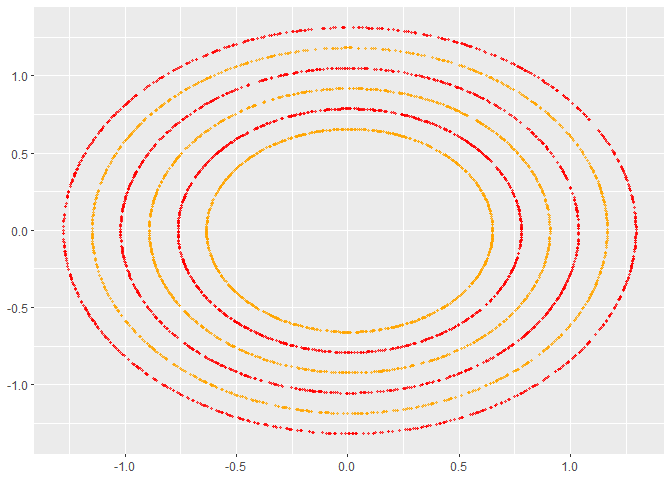
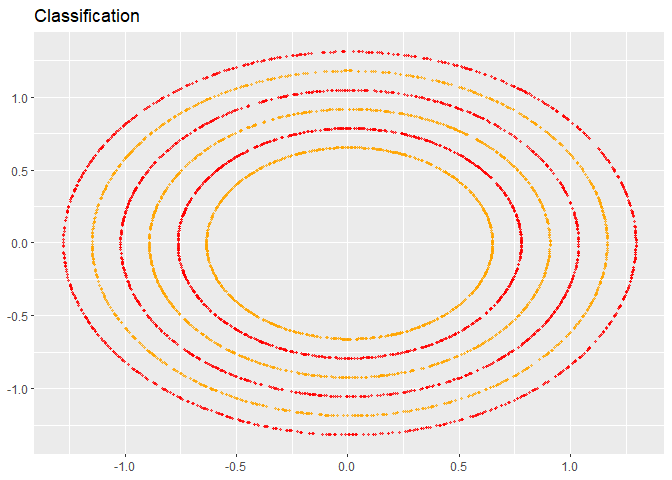
modify readme

diff --git a/README.md b/README.md
@@ -27,7 +27,10 @@ devtools::install_github("junhuihe2000/FLAG")
 
 ## Example
 
-This is a basic example which shows you how to solve a common problem:
+These are some basic examples which show you how to solve a common
+problem:
+
+### Gaussian process classification(GPC)
 
 ``` r
 library(ggplot2)
@@ -61,7 +64,8 @@ train.label = Y[train.index,]; test.label = Y[test.index,]
 ggplot() + geom_point(aes(X[,1],X[,2],color=factor(Y)), size=0.6, alpha=0.6) +
   scale_color_manual(values = c("red", "orange")) + 
   theme(legend.position="none", 
-        axis.title.x=element_blank(), axis.title.y=element_blank())
+        axis.title.x=element_blank(), axis.title.y=element_blank()) +
+  ggtitle("Classification")
 ```
 
 <img src="man/figures/README-example-1.png" width="100%" />
@@ -82,7 +86,7 @@ t1 = Sys.time()
 y_skflag.torus = fit_se_logit_gp_rcpp(train.data, train.label, test.data, s, r, K, models = models)
 t2 = Sys.time()
 print(t2-t1)
-#> Time difference of 20.29764 secs
+#> Time difference of 20.18796 secs
 err_skflag.torus = sum((test.label!=y_skflag.torus)^2)/(n-m)
 cat("The error rate of SKFLAG is",err_skflag.torus,".\n")
 #> The error rate of SKFLAG is 0 .
@@ -96,8 +100,65 @@ t3 = Sys.time()
 y_lkflag.torus = fit_lae_logit_gp_rcpp(train.data, train.label, test.data, s, r, K, models = models)
 t4 = Sys.time()
 print(t4-t3)
-#> Time difference of 3.817405 secs
+#> Time difference of 3.736453 secs
 err_lkflag.torus = sum((test.label-y_lkflag.torus)^2)/(n-m)
 cat("The error rate of LKFLAG is",err_lkflag.torus,".\n")
 #> The error rate of LKFLAG is 0.02702128 .
 ```
+
+### Gaussian process regression(GPR)
+
+``` r
+n = 2000
+theta = runif(n,0,8*pi)
+X = cbind((theta+4)^(0.7)*cos(theta), (theta+4)^(0.7)*sin(theta))
+Y = 3*sin(theta/10) + 3*cos(theta/2) + 4*sin(4*theta/5)
+
+ggplot() + geom_point(aes(X[,1],X[,2],color=Y)) +
+  scale_color_gradientn(colours = rainbow(10)) +
+  theme(axis.title.x=element_blank(), axis.title.y=element_blank()) +
+  ggtitle("Regression")
+```
+
+<img src="man/figures/README-unnamed-chunk-5-1.png" width="100%" />
+
+``` r
+m = 200
+train.index = sample.int(n,m); test.index = c(1:n)[-train.index]
+X.train = X[train.index,]; Y.train = Y[train.index]
+X.test = X[test.index,]; Y.test = Y[test.index]
+```
+
+``` r
+s = 500; r = 3; K = 100
+```
+
+``` r
+rmse_skflag.spiral = sqrt(sum((Y.test-Y_pred_skflag)^2)/(n-m))
+cat("The RMSE of SKFLAG is",rmse_skflag.spiral,".\n")
+#> The RMSE of SKFLAG is 0.9932914 .
+```
+
+``` r
+ggplot() + geom_point(aes(X.test[,1],X.test[,2],color=Y_pred_skflag)) +
+  scale_color_gradientn(colours = rainbow(10)) +
+  theme(axis.title.x=element_blank(), axis.title.y=element_blank()) +
+  ggtitle("SKFLAG in Regression")
+```
+
+<img src="man/figures/README-unnamed-chunk-10-1.png" width="100%" />
+
+``` r
+rmse_lkflag.spiral = sqrt(sum((Y.test-Y_pred_lkflag)^2)/(n-m))
+cat("The RMSE of LKFLAG is",rmse_lkflag.spiral,".\n")
+#> The RMSE of LKFLAG is 0.5455141 .
+```
+
+``` r
+ggplot() + geom_point(aes(X.test[,1],X.test[,2],color=Y_pred_lkflag)) +
+  scale_color_gradientn(colours = rainbow(10)) +
+  theme(axis.title.x=element_blank(), axis.title.y=element_blank()) +
+  ggtitle("LKFLAG in Regression")
+```
+
+<img src="man/figures/README-unnamed-chunk-13-1.png" width="100%" />
